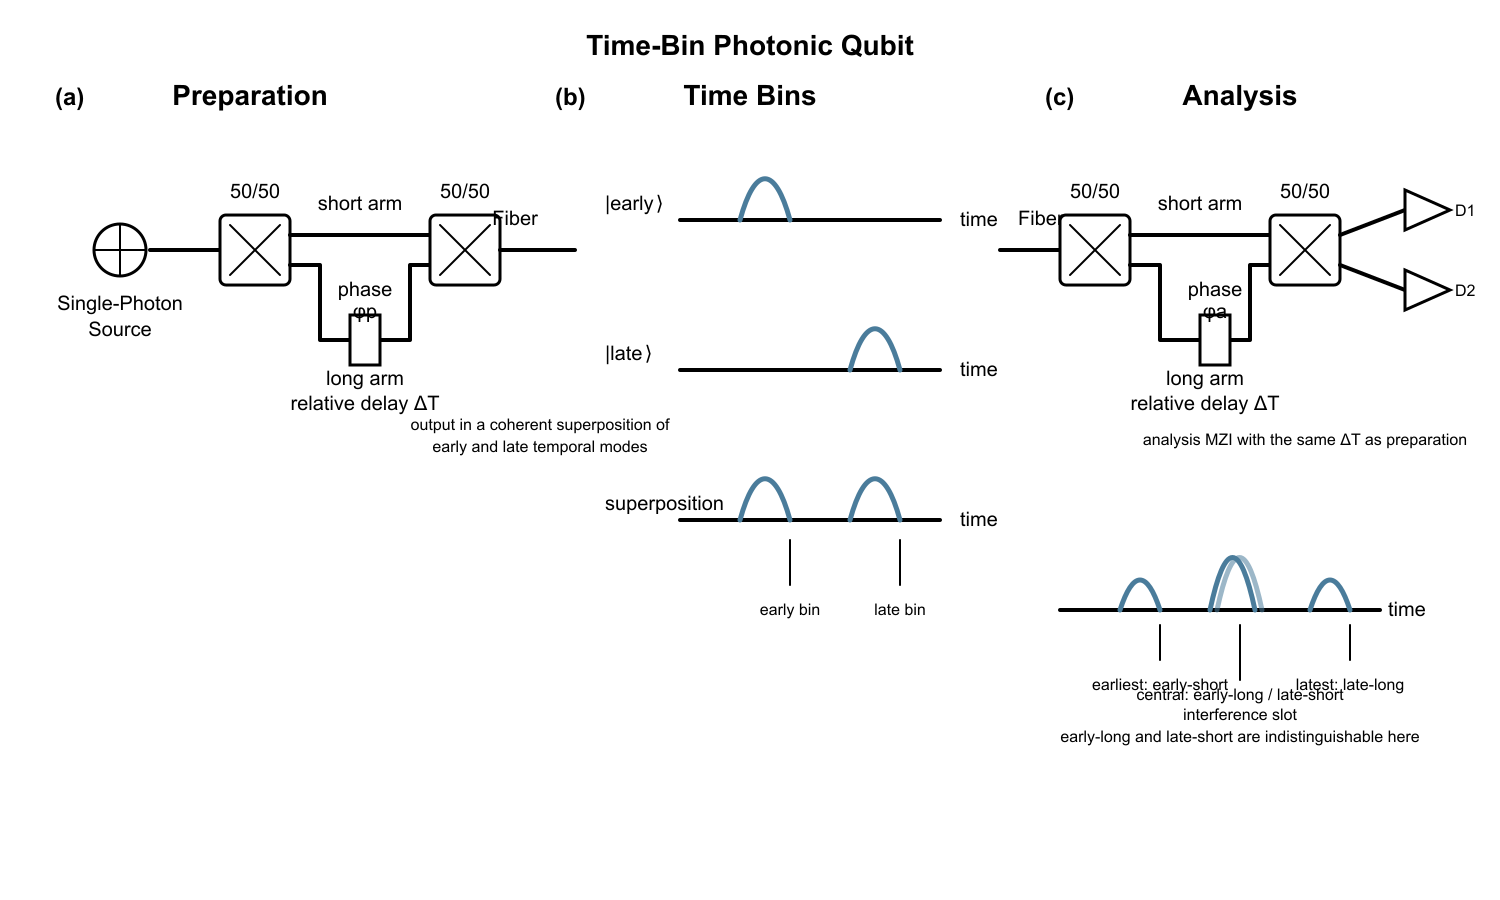
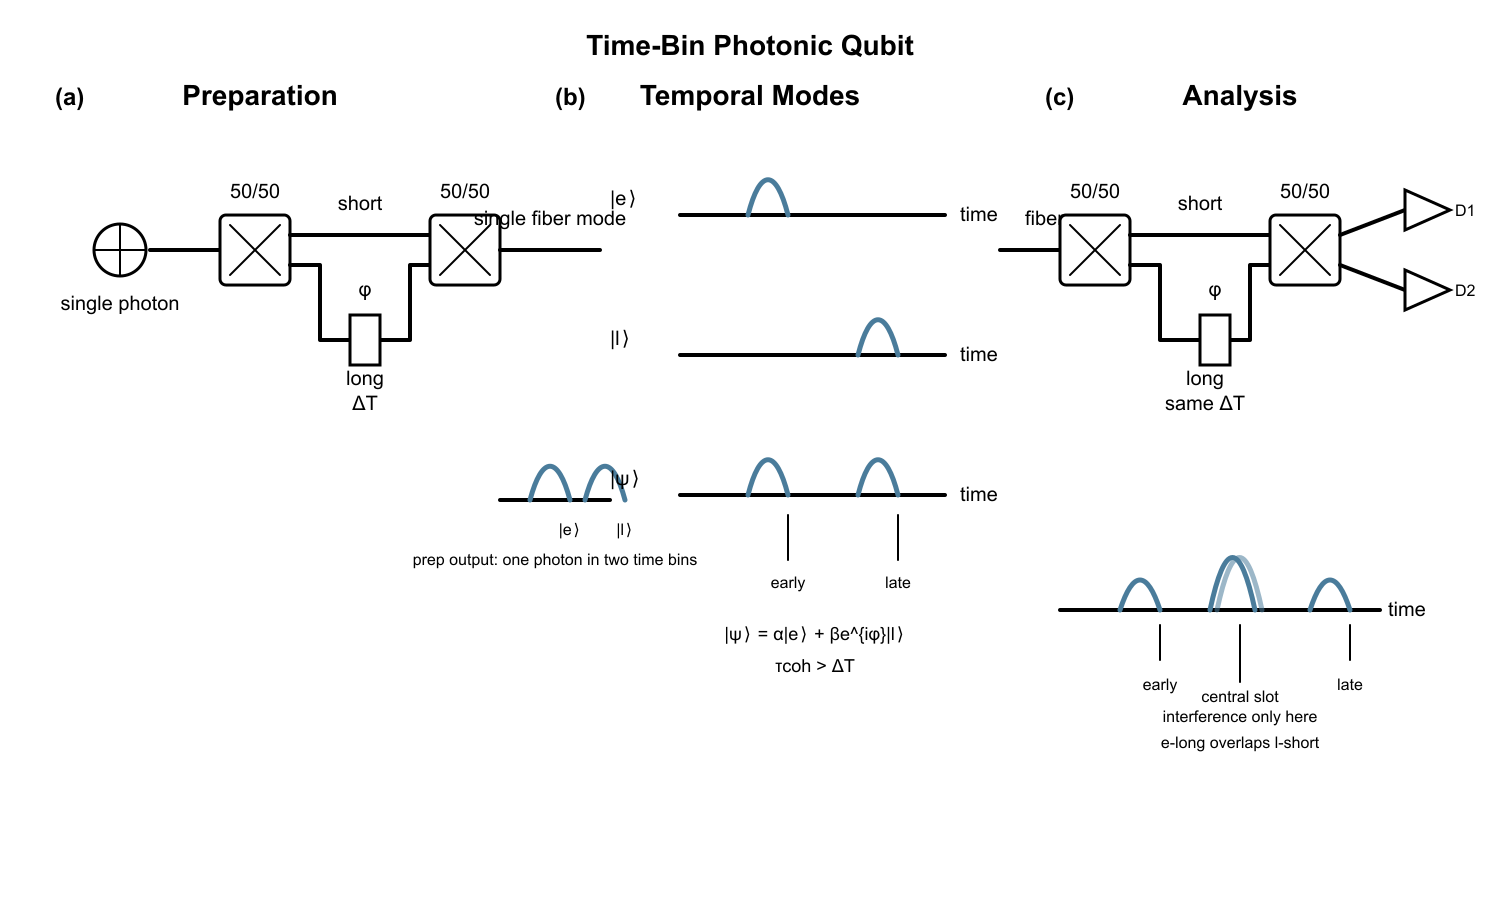
Audit time-bin photonic qubit figure

diff --git a/content/Zoo/time-bin-photonic-qubit.md b/content/Zoo/time-bin-photonic-qubit.md
@@ -3,7 +3,7 @@ title: Time-Bin Photonic Qubit
 entry_type: qubit
 technology_family: Photonic
 status: demonstrated
-figure_reviewed: false
+figure_reviewed: true
 first_proposed_year: 1999
 first_demonstrated_year: 1999
 keywords:
@@ -15,10 +15,10 @@ keywords:
 - interferometric
 - quantum network
 influence_score: 0.70
-last_updated: '2026-07-17'
+last_updated: '2026-07-18'
 generated_by: scibok-curation
 extracted_by: scibok
-verified_by: scibok-manual-2026-07-17
+verified_by: scibok-manual-2026-07-18
 ---
 
 ## Figure
